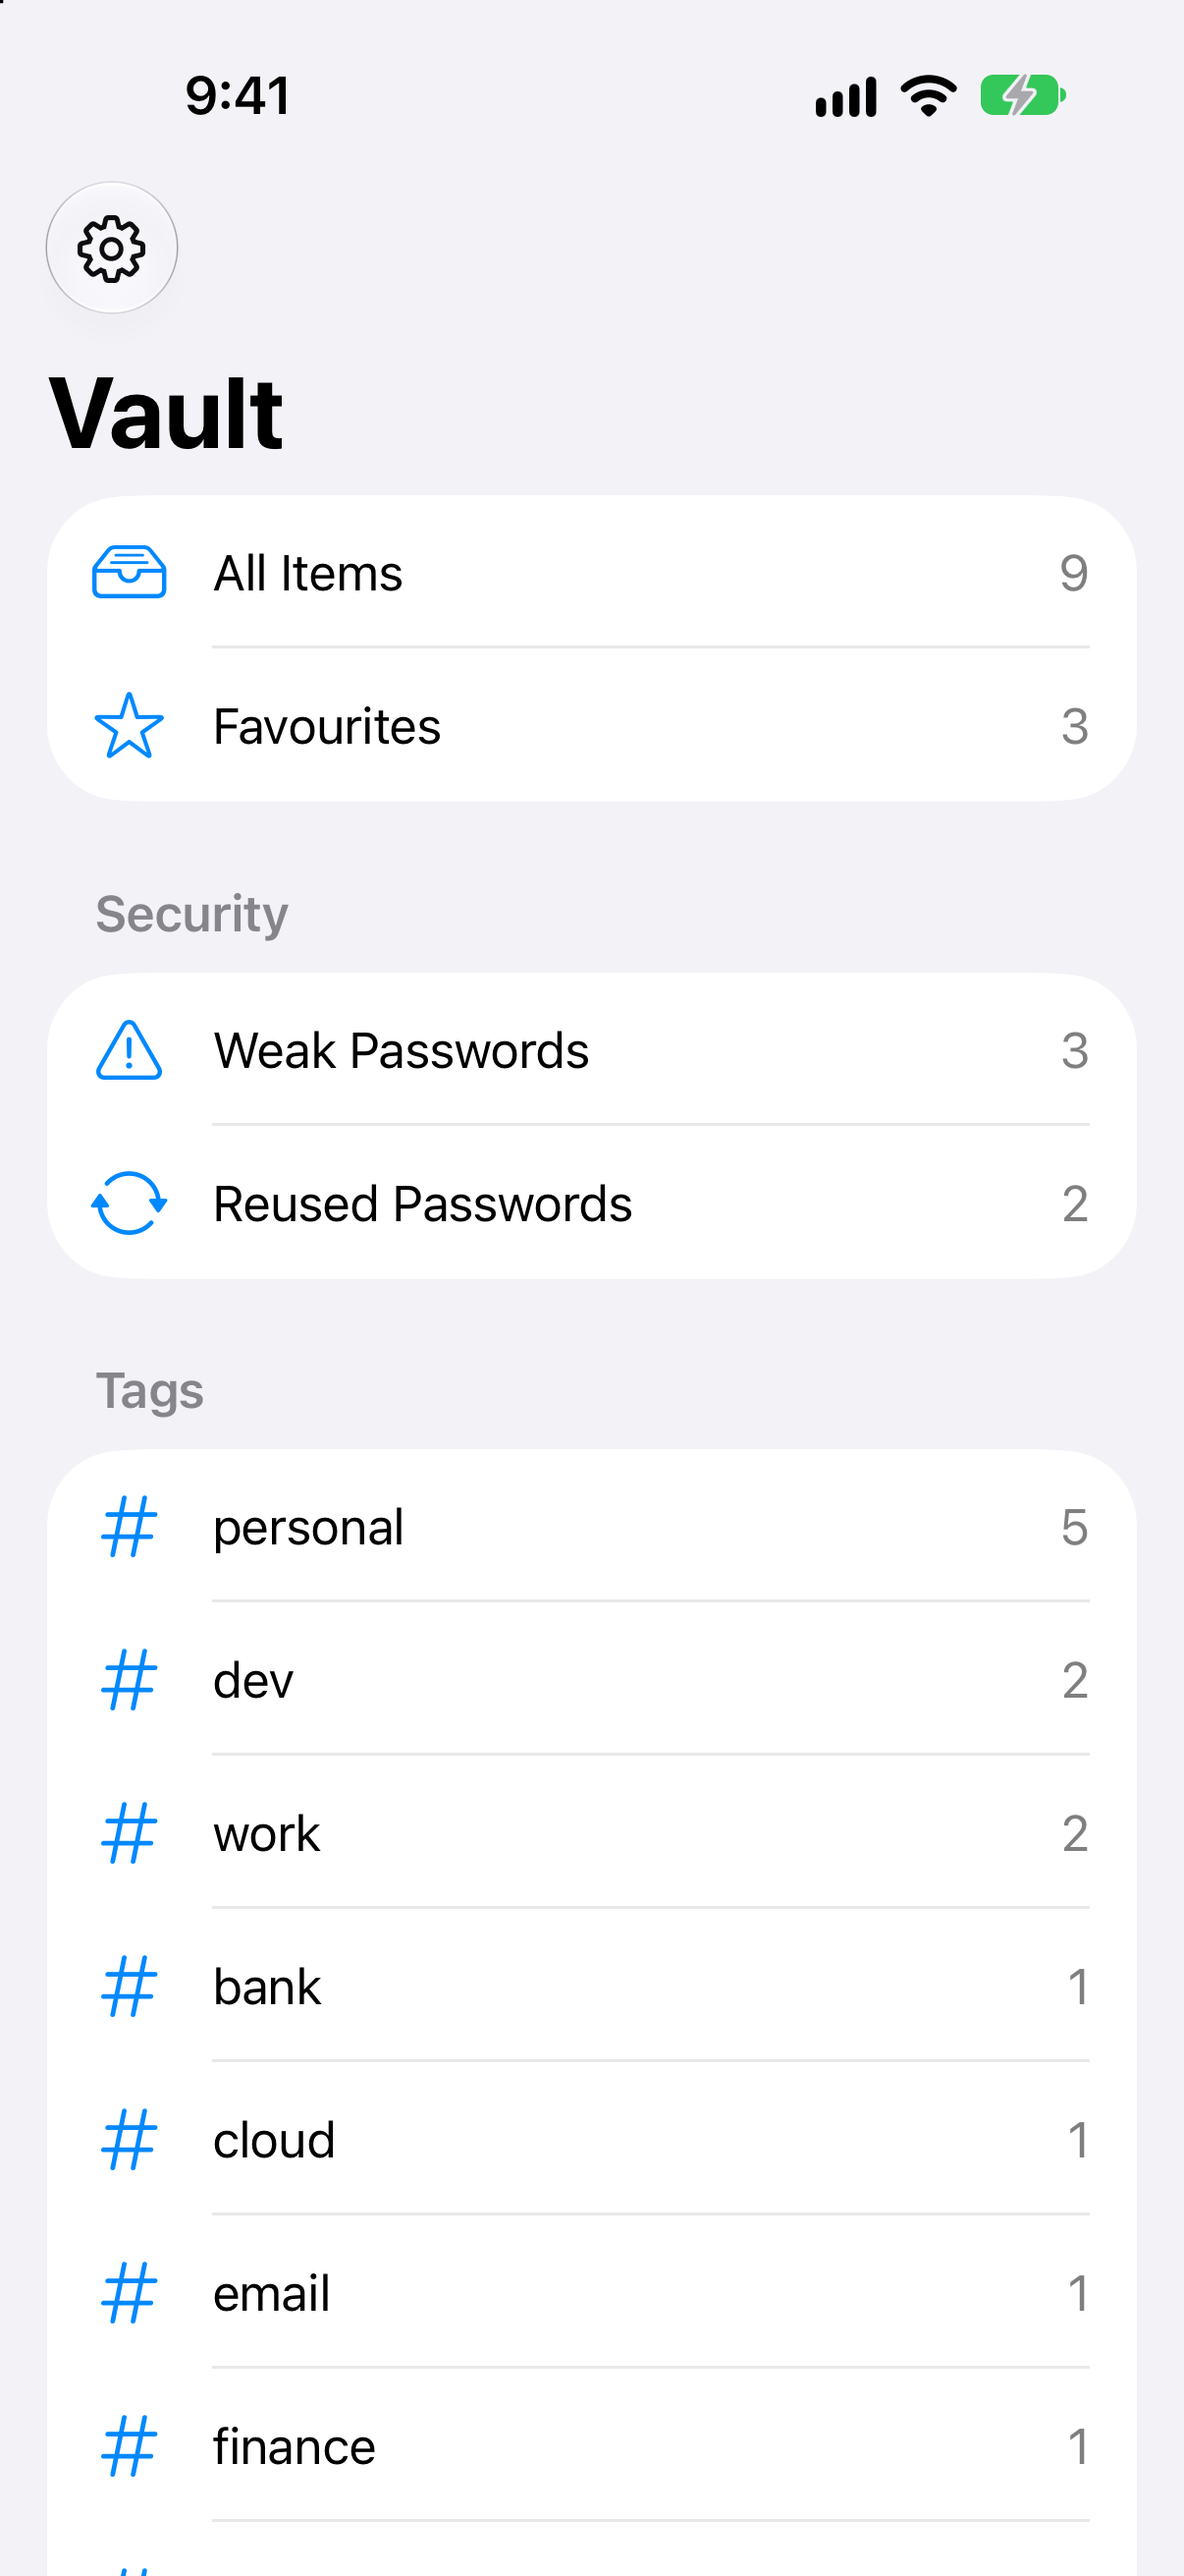
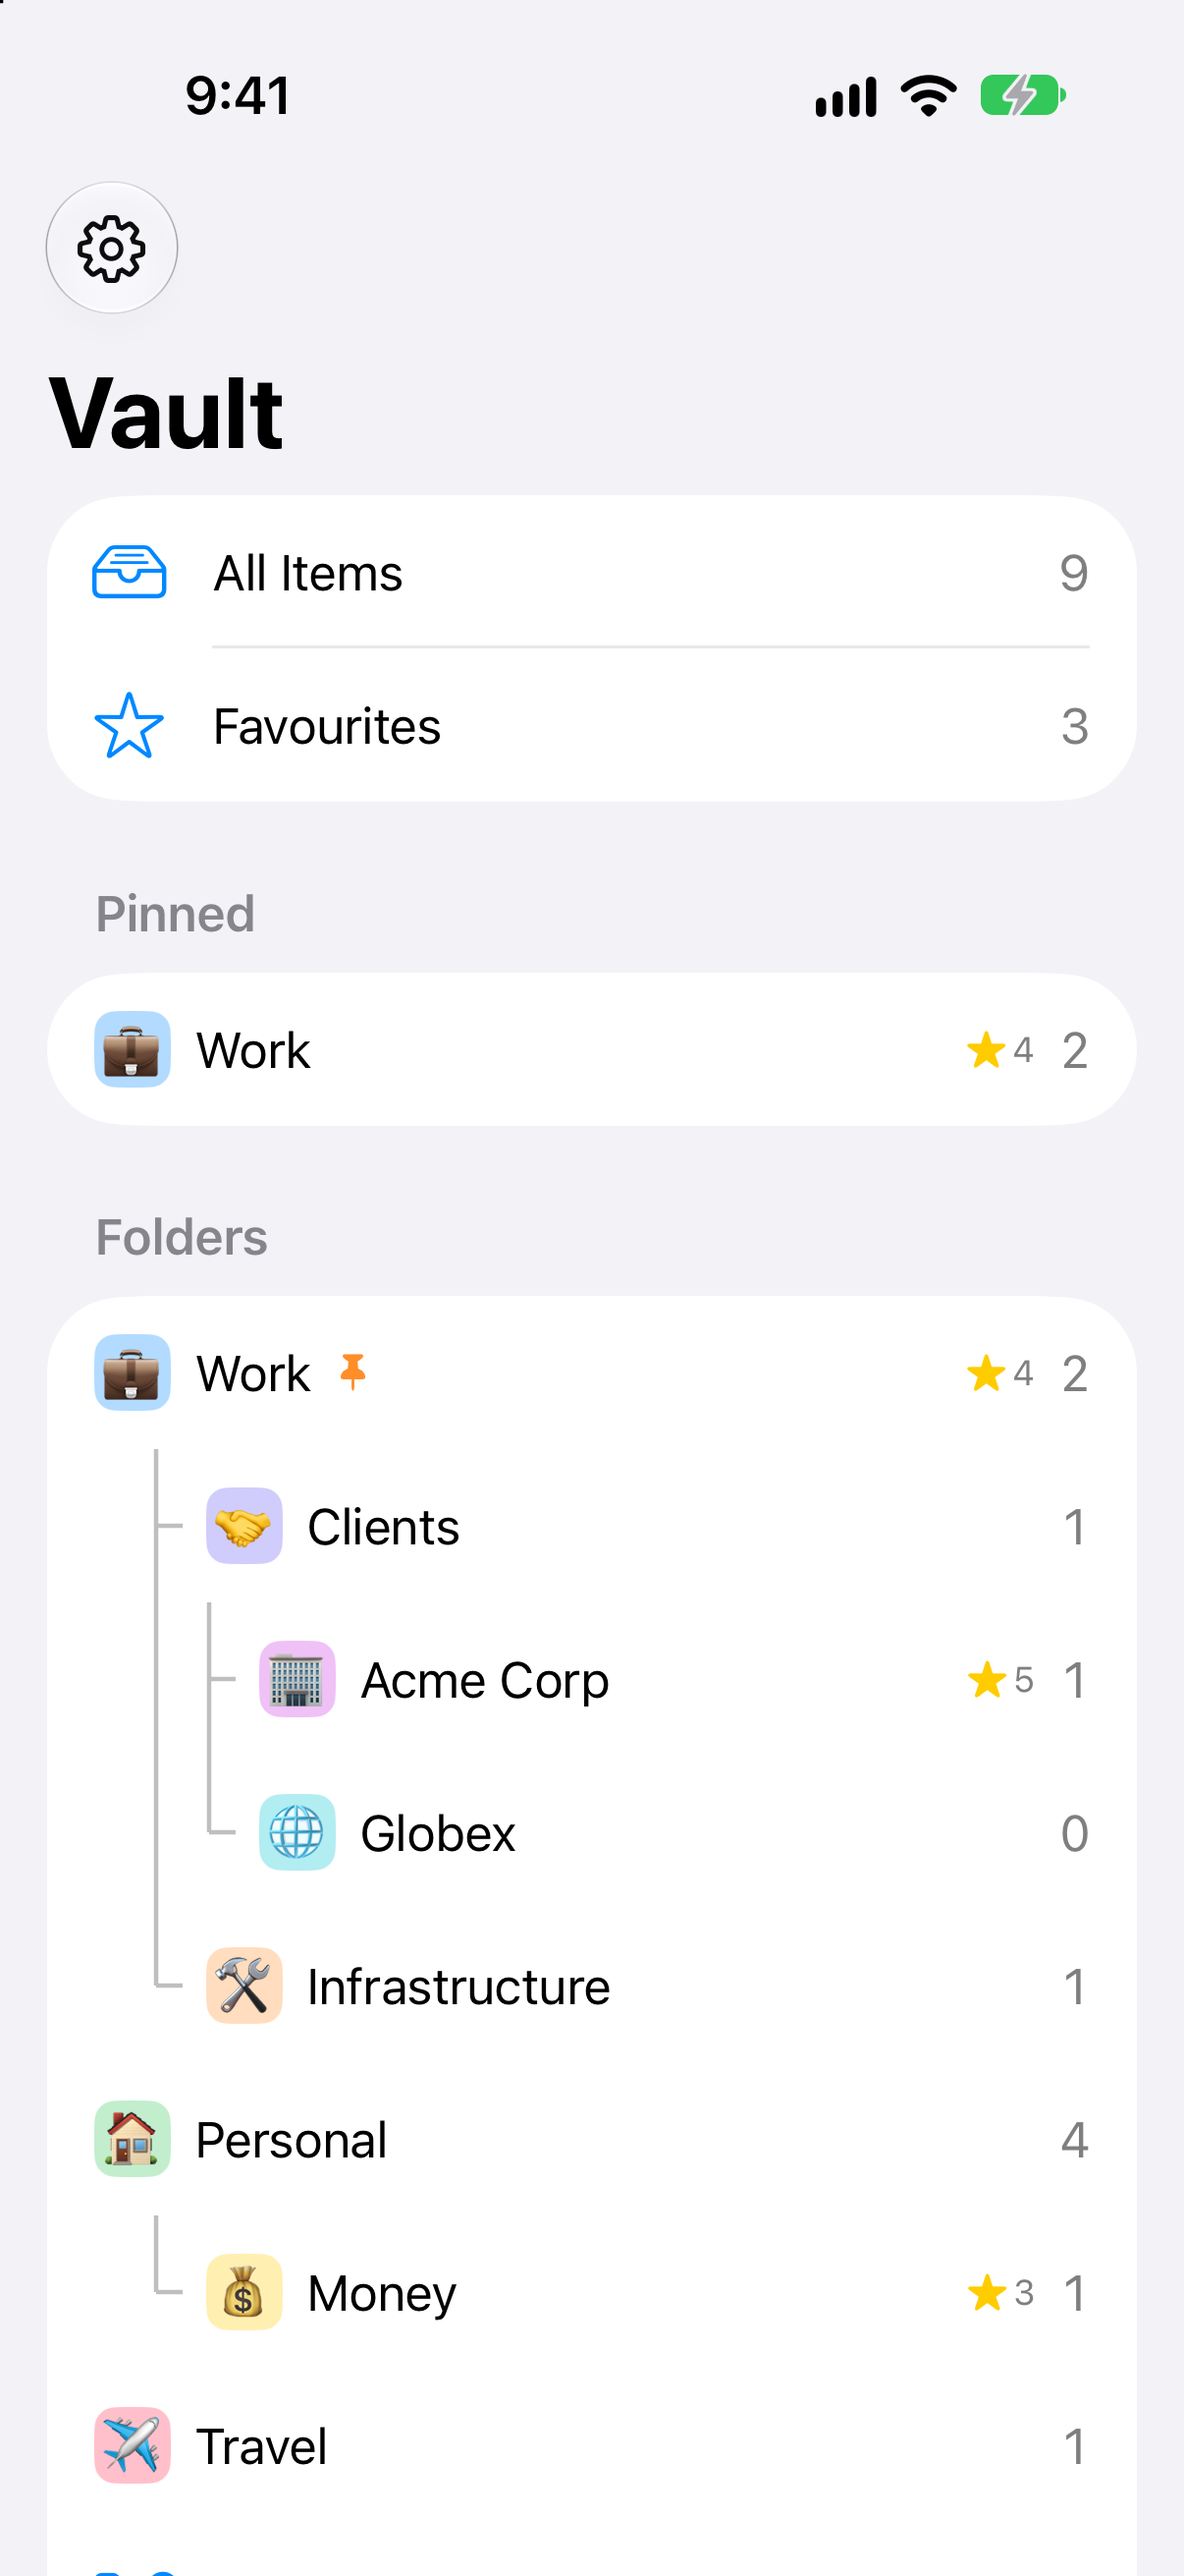
Document folders; drop the breach check

diff --git a/docs/user-guide.md b/docs/user-guide.md
@@ -47,6 +47,28 @@ Copied values stay on this device only and are cleared after one minute. Change 
 - Type `#` followed by a few letters to filter by tag. `alex #work` finds logins that contain "alex" and have the tag `work`.
 - Tap the sort button to order by title, date updated, date created, or favourites first.
 
+## Folders
+
+<img src="../screenshots/iphone-sidebar.png" width="260" alt="Sidebar showing pinned folders and the folder tree with connecting lines">
+
+Folders group your items and nest up to three levels deep. Lines in the sidebar join each subfolder to its parent. Selecting a folder shows its items and those of its subfolders.
+
+- **Create**: tap **New Folder** at the end of the Folders list. For a subfolder, touch and hold a folder (right-click on a Mac) and choose **New Subfolder**.
+- **Colour and emoji**: pick both when creating or editing a folder.
+- **Star rating**: rate a folder from one to five stars in the editor, or from its menu.
+- **Pin**: pinned folders appear in a **Pinned** section at the top and sort first among their siblings. Swipe a folder to the right, or use its menu.
+- **Edit or delete**: swipe a folder to the left, or use its menu. Deleting a folder also deletes its subfolders, but the items inside are kept and move to the top level.
+
+<img src="../screenshots/iphone-folder-edit.png" width="260" alt="Folder editor with emoji, colour and rating choices">
+
+### Putting an item in a folder
+
+In the item editor, tap **Folder**. Choose **No Folder (top level)** to keep the item outside every folder, or search for a folder. The search is forgiving: typing `acp` finds "Acme Corp". A new item starts in whichever folder you were viewing.
+
+An item with just a title and notes works as a secure note, so folders can hold notes as well as logins.
+
+<img src="../screenshots/iphone-folder-picker.png" width="260" alt="Folder search finding Acme Corp from the letters acp">
+
 ## Tags
 
 Type tags in the **Tags** field separated by spaces: `#work #bank`. Hashtags written in the notes are added as tags too. The sidebar lists every tag with its number of logins.
@@ -63,7 +85,7 @@ Every login shows when it was created and last updated.
 
 ## Security checks
 
-The sidebar lists **Weak Passwords** and **Reused Passwords**. On any login, tap **Check for Data Breaches** to see whether that password appears in known breaches.
+The sidebar lists **Weak Passwords** and **Reused Passwords**.
 
 ## Deleting
 

diff --git a/README.md b/README.md
@@ -5,7 +5,7 @@ Keep every login in one place, locked with Face ID or Touch ID and synced throug
 <p>
   <img src="screenshots/iphone-list.png" width="240" alt="List of saved logins">
   <img src="screenshots/iphone-detail.png" width="240" alt="Details of one login">
-  <img src="screenshots/iphone-sidebar.png" width="240" alt="Sidebar with favourites, security checks and tags">
+  <img src="screenshots/iphone-sidebar.png" width="240" alt="Sidebar with pinned folders and a folder tree joined by connecting lines">
 </p>
 
 Screenshots are taken from the app running with sample data.
@@ -15,11 +15,12 @@ Screenshots are taken from the app running with sample data.
 - **One-tap copy** of a username or password, from the list or the detail screen. The clipboard clears itself.
 - **Search** across titles, usernames, websites, notes and tags. Type `#` to filter by tag.
 - **Sort** by title, date updated, date created, or favourites first.
+- **Folders**, nested up to three levels, each with its own colour, emoji, star rating and optional pin.
 - **Hashtags** to organise logins, with a tag list in the sidebar.
 - **Autocomplete**: your most used usernames and tags are one tap away, before you type anything.
 - **Select All, Copy and Paste buttons** beside every field when adding or editing a login.
 - **Password generator** with a strength meter.
-- **Security checks**: weak passwords, reused passwords and known data breaches.
+- **Security checks**: weak and reused passwords.
 - **Previous passwords**: the last five are kept per login, and you can view, reuse, edit or delete them.
 - **Drafts**: close the editor half-way and your typing is still there when you come back.
 - **Custom fields** and file attachments on every item.

diff --git a/docs/faq.md b/docs/faq.md
@@ -6,9 +6,6 @@ No. The passphrase is the only key to a backup file. Your synced vault is not af
 **Where is my data stored?**
 On your devices and in your private iCloud database. There is no other server.
 
-**Does the breach check send my password anywhere?**
-No. The app sends only the first five characters of a scrambled (hashed) form of the password to the Have I Been Pwned service, then compares the results on your device.
-
 **Why does a copied password disappear from the clipboard?**
 To limit how long it sits there. Change or turn off the delay in **Settings › Clear Clipboard**.
 
@@ -23,6 +20,12 @@ No. The watch app is for looking things up.
 
 **I deleted a login by mistake.**
 Open **Trash** in the sidebar and restore it. Items stay there for 30 days.
+
+**What happens to my items if I delete a folder?**
+They are kept and move to the top level. Subfolders of the deleted folder are removed.
+
+**How deep can folders go?**
+Three levels: a folder, a subfolder, and one more inside that.
 
 **Does it support one-time codes?**
 Not in this version.
